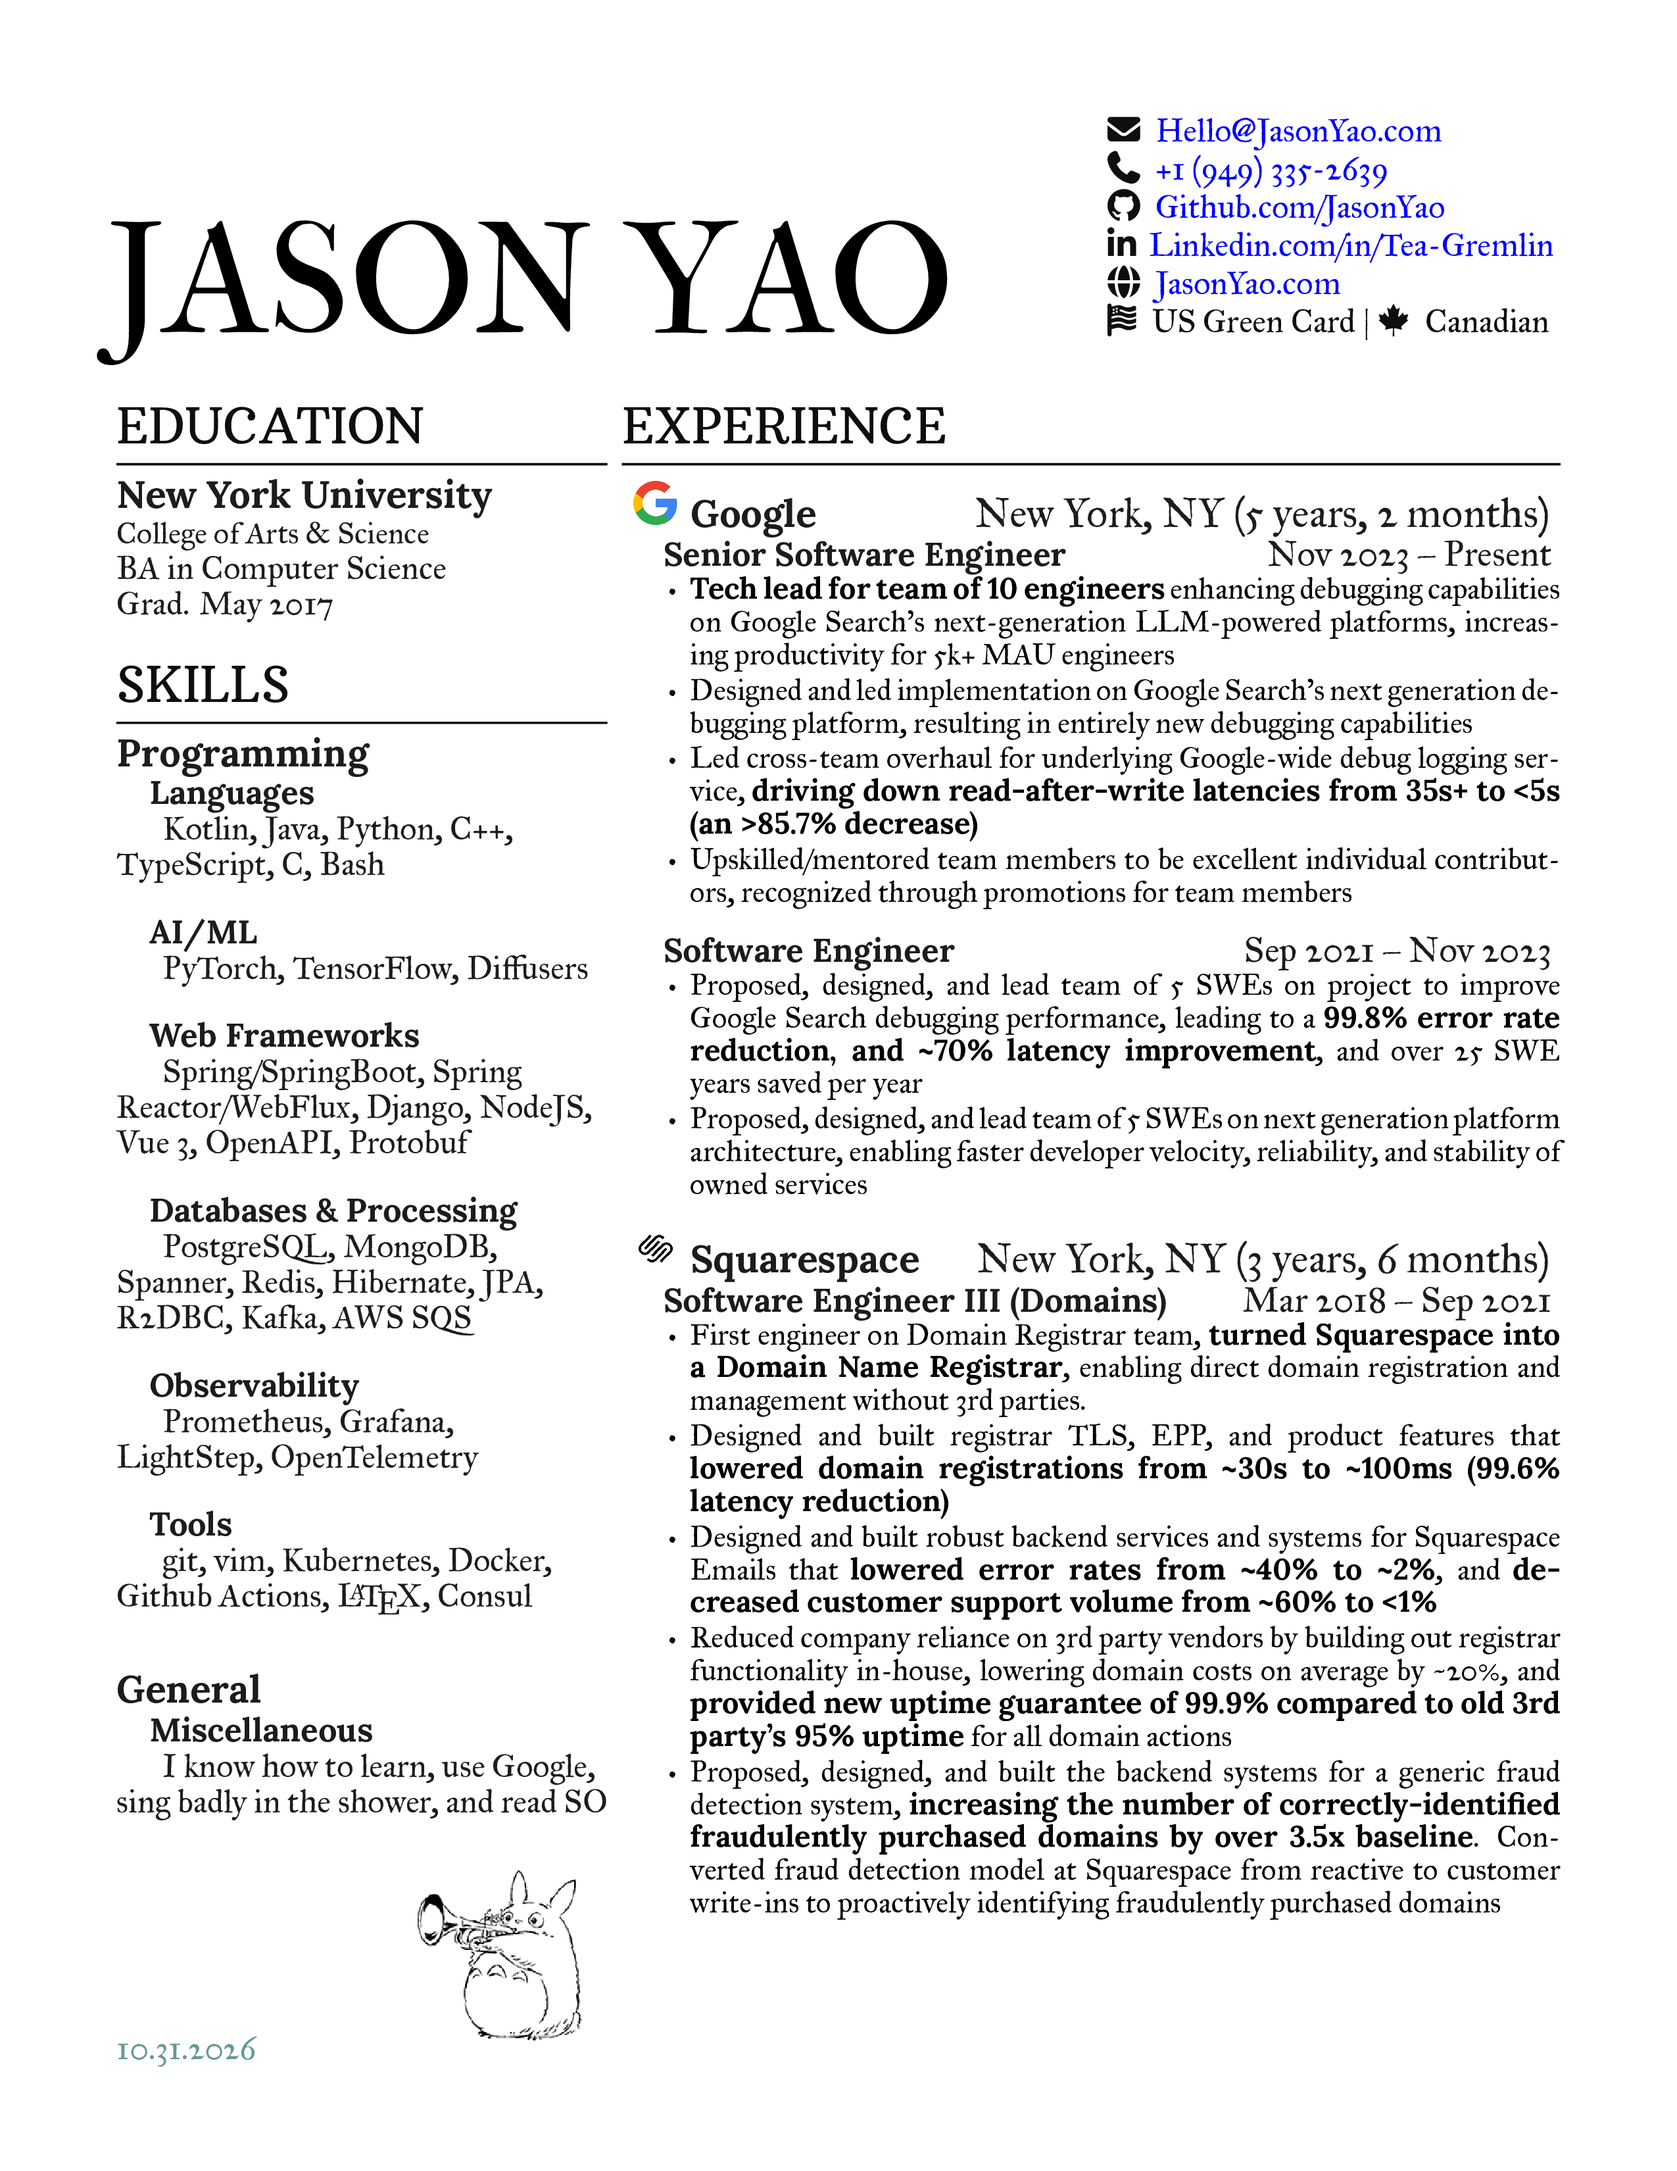
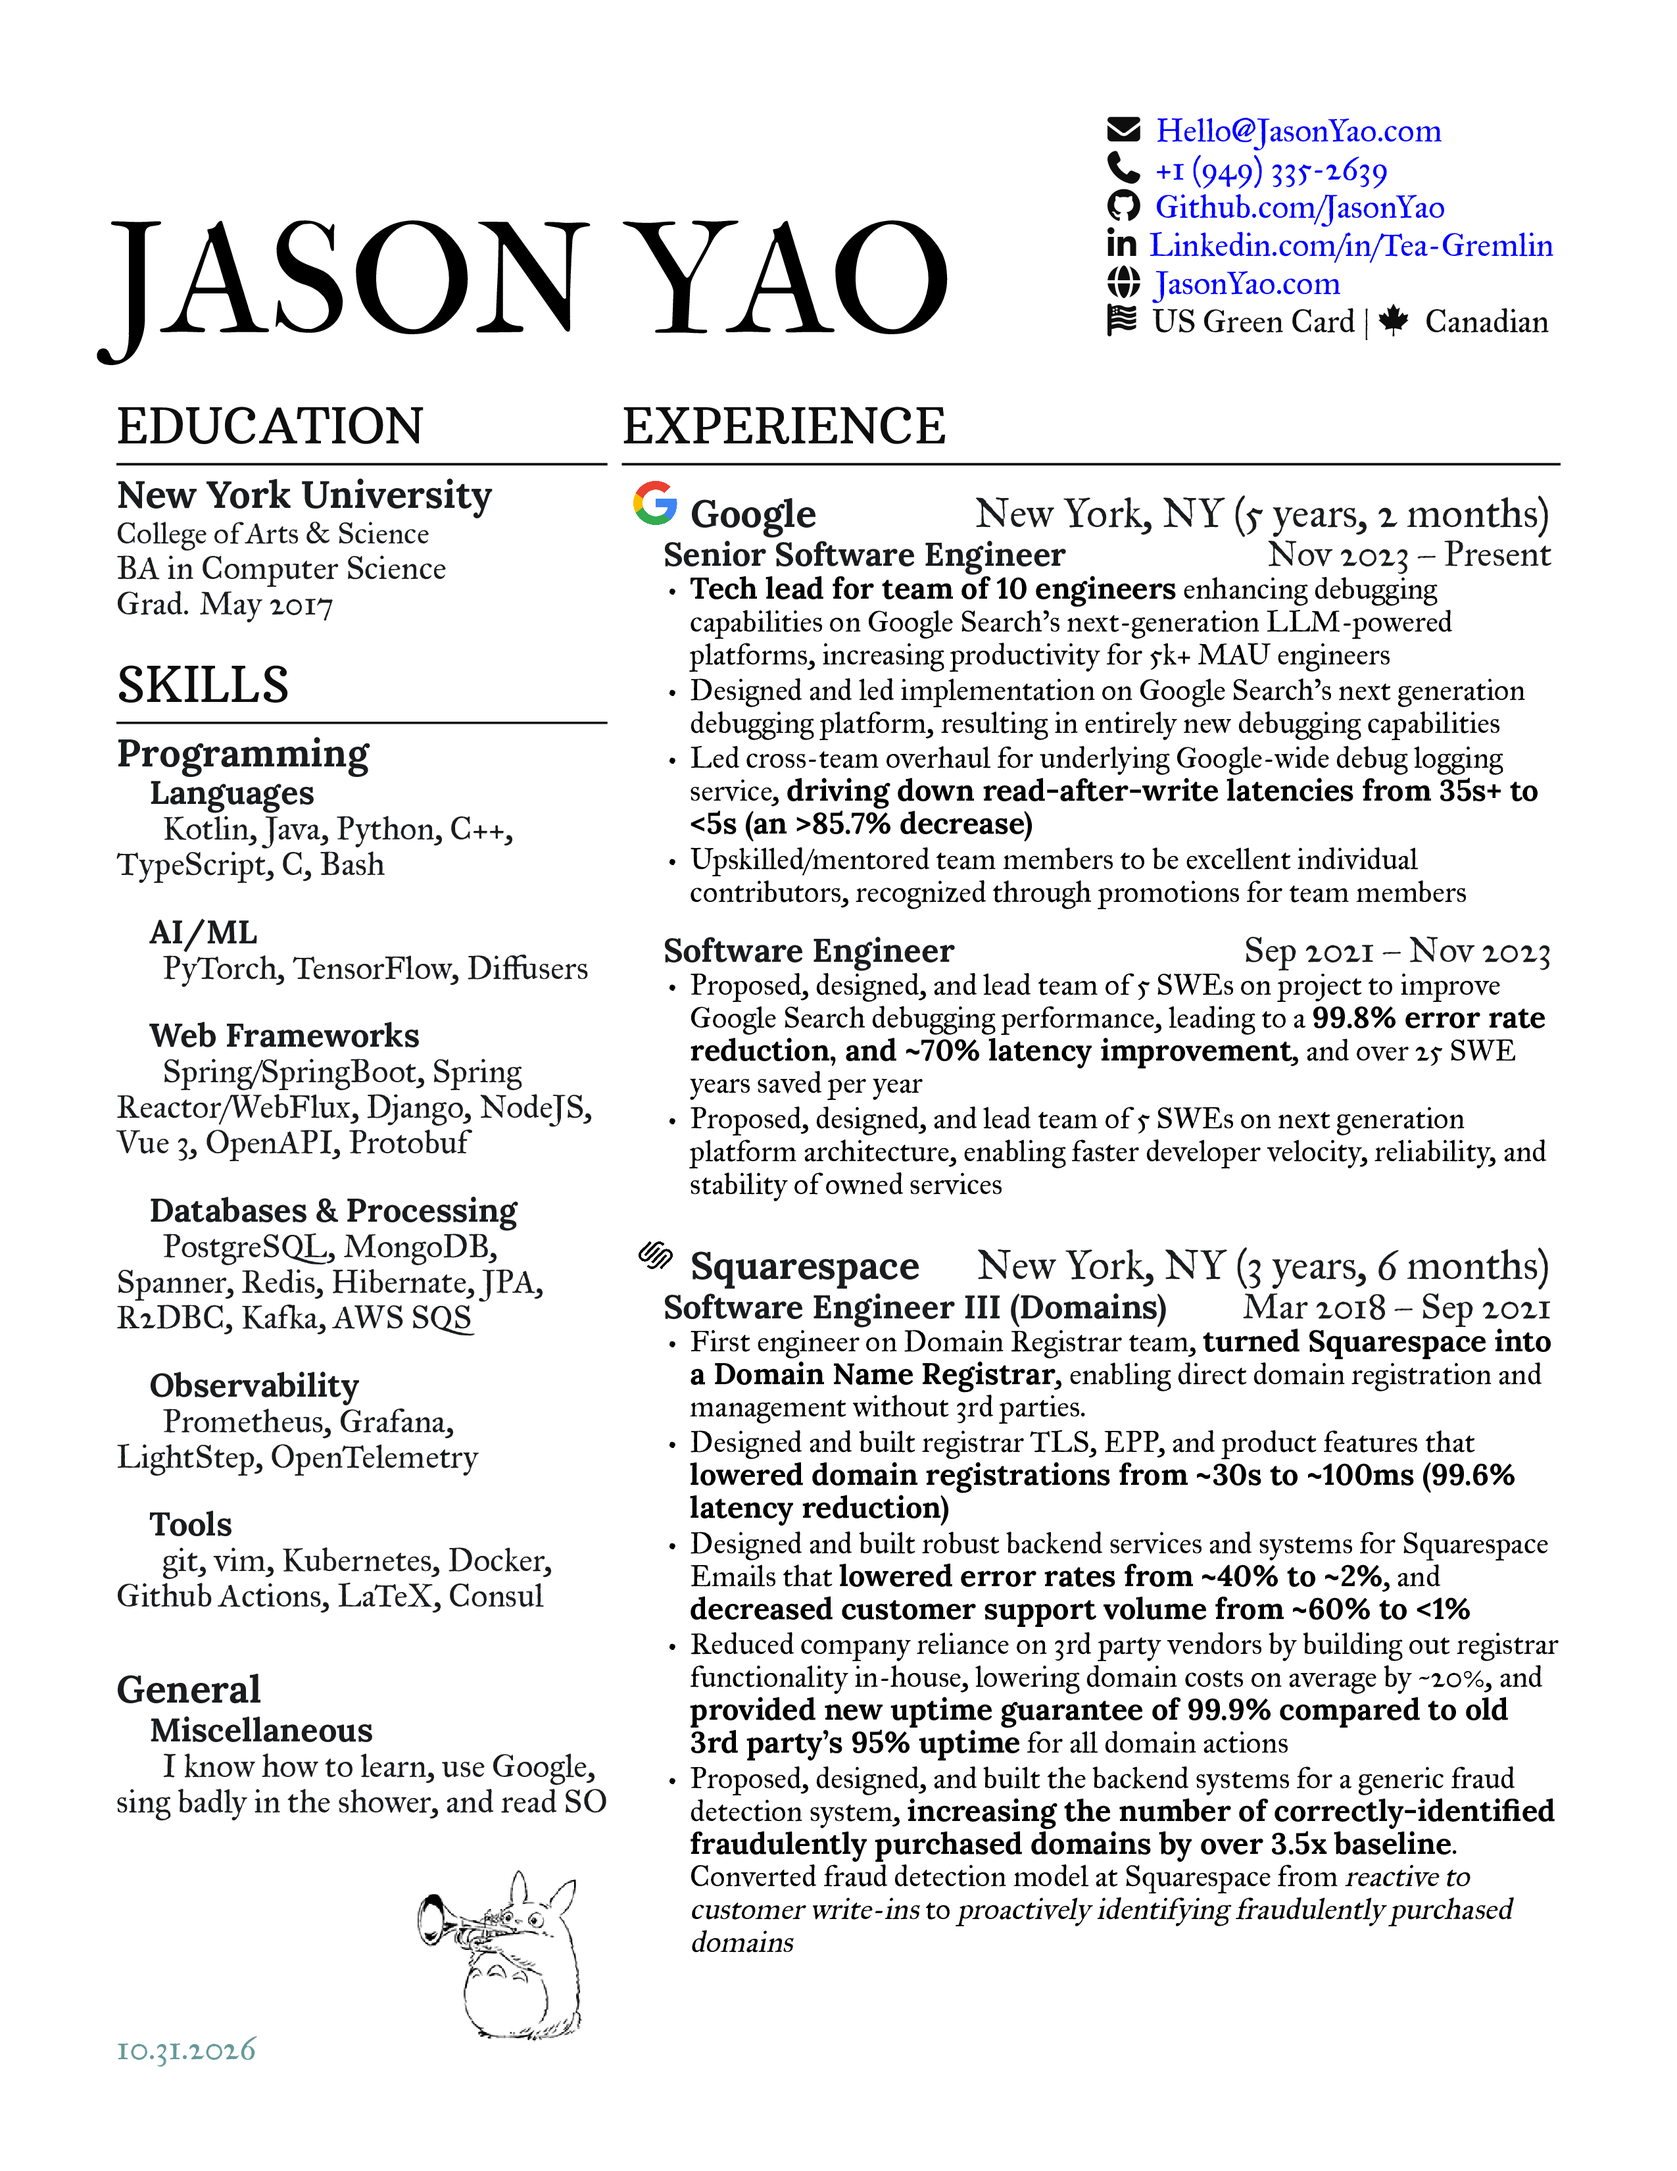
[Build] 64019234b0e4f49bd7ea1f805ac3a415e51c228f

Changed region(s): [[0.3718, 0.2497, 0.9294, 0.9052], [0.2169, 0.7179, 0.3098, 0.7491]]

diff --git a/pyresume/templators/latex_2_column_resume/__init__.py b/pyresume/templators/latex_2_column_resume/__init__.py
@@ -67,8 +67,7 @@ def escape_latex(unescaped_sequence: Union[str, dict]) -> Union[str, dict]:
 
     escaped_latex_key_characters = unescaped_sequence.replace("&", "\\&")\
         .replace("%", "\\%")\
-        .replace("~", "\\textasciitilde")\
-        .replace("LaTeX", "\\LaTeX")
+        .replace("~", "\\textasciitilde")
     escaped_bolded_text = sub(r"\*\*.*?\*\*", lambda matched_text: f"\\textbf{{{matched_text.group(0).replace('**', '')}}}", escaped_latex_key_characters)
     escaped_italicized_text = sub(r"\_.*?\_", lambda matched_text: f"\\textit{{{matched_text.group(0).replace('_', '')}}}", escaped_bolded_text)
     return escaped_italicized_text
